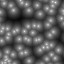
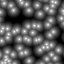
Improve noise

diff --git a/ray_march.go b/ray_march.go
@@ -8,7 +8,7 @@ import (
 	"github.com/aquilax/go-perlin"
 )
 
-var perlin_gen = perlin.NewPerlin(2.0, 2.0, 1, 1234)
+var perlin_gen = perlin.NewPerlin(0.1, 1.0, 2, 1234) // contrast, zoom, iterations (details), seed
 
 func ray_march(img *ImageTarget, camera *Camera, perlin_values *DataMatrix[float64], time float64) {
 	sphere := Sphere{
@@ -150,7 +150,8 @@ func march_volume(starting_ray *Ray, sphere *Sphere, light *DirectionalLight, no
 		// density := 0.025
 		density := noisef
 		acc_density += density
-		absorbed := math.Exp(-volume_acc_dist * density)
+		absorbed := math.Exp(-volume_acc_dist * density) // Beer's law
+		absorbed *= 0.25
 
 		// shade
 
@@ -161,7 +162,6 @@ func march_volume(starting_ray *Ray, sphere *Sphere, light *DirectionalLight, no
 		// with light
 		sub_sphere_normal := ray_origin_in_sphere_space.Sub(sphere.C).Normalized()
 		light_factor := sub_sphere_normal.Dot((*light).dir)
-		// light_amount := (1 - absorbed) * light_factor * 0.5
 		light_amount := (absorbed) * light_factor * 0.2
 		point_light_color := light.color.Scale(light_amount)
 		// point_cloud_col := cloud_color.Scale(1.0 * (1 - absorbed))
@@ -179,25 +179,26 @@ func march_volume(starting_ray *Ray, sphere *Sphere, light *DirectionalLight, no
 }
 
 func sample_noise(point Vec3, noise_values *DataMatrix[float64], perlin *perlin.Perlin, time float64) float64 {
-	noise_scale := 50.0
-	noise_phase := time * 10
-	noise_x := int(math.Abs(point.X*noise_scale + noise_phase*1))
-	noise_y := int(math.Abs(point.Y*noise_scale + noise_phase*0))
-	noise_z := int(math.Abs(point.Z*noise_scale*2 + noise_phase*1))
-	noise1 := noise_values.get(noise_x, noise_y)
-	noise2 := noise_values.get(noise_x, noise_z)
-	noisef_0 := (noise1 + noise2) * 0.5
+	// noise_scale := 25.0
+	// noise_phase := time * 10
+	// noise_x := int(math.Abs(point.X*noise_scale + noise_phase*1))
+	// noise_y := int(math.Abs(point.Y*noise_scale + noise_phase*0))
+	// // noise_z := int(math.Abs(point.Z*noise_scale*2 + noise_phase*1))
+	// noise1 := noise_values.get(noise_x, noise_y)
+	// // noise2 := noise_values.get(noise_x, noise_z)
+	// // noisef_0 := (noise1 + noise2) * 0.5
+	// noisef_0 := noise1
 
-	// noise_scale_1 := 1.0
-	// noise_phase_1 := time * 2
-	// noisef_1 := perlin_gen.Noise3D(
-	// 	point.X*noise_scale_1+noise_phase_1*1,
-	// 	point.Y*noise_scale_1+noise_phase_1*0,
-	// 	point.Z*noise_scale_1+noise_phase_1*2,
+	// perlin_scale_1 := 2.0
+	// perlin_phase_1 := time * 1
+	// perlin_1 := perlin_gen.Noise3D(
+	// 	point.X*perlin_scale_1+perlin_phase_1*1,
+	// 	point.Y*perlin_scale_1+perlin_phase_1*0,
+	// 	point.Z*perlin_scale_1+perlin_phase_1*2,
 	// )
 
-	perlin_scale_2 := 6.0
-	perlin_phase_2 := time * 3
+	perlin_scale_2 := 8.0
+	perlin_phase_2 := time * 1
 	perlin_2 := perlin_gen.Noise3D(
 		point.X*perlin_scale_2+perlin_phase_2*1,
 		point.Y*perlin_scale_2+perlin_phase_2*0,
@@ -205,7 +206,11 @@ func sample_noise(point Vec3, noise_values *DataMatrix[float64], perlin *perlin.
 	)
 	// perlin_2 = 1 - perlin_2
 
-	balance := 0.5
-	noisef := noisef_0*balance + perlin_2*(1-balance) //+ noisef_1 + 0.1
+	perlinf := perlin_2
+	// perlinf := (perlin_1 + perlin_2) * 0.5
+
+	// balance := 1.0
+	// noisef := noisef_0*(1-balance) + perlinf*balance //+ noisef_1 + 0.1
+	noisef := perlinf
 	return noisef
 }
